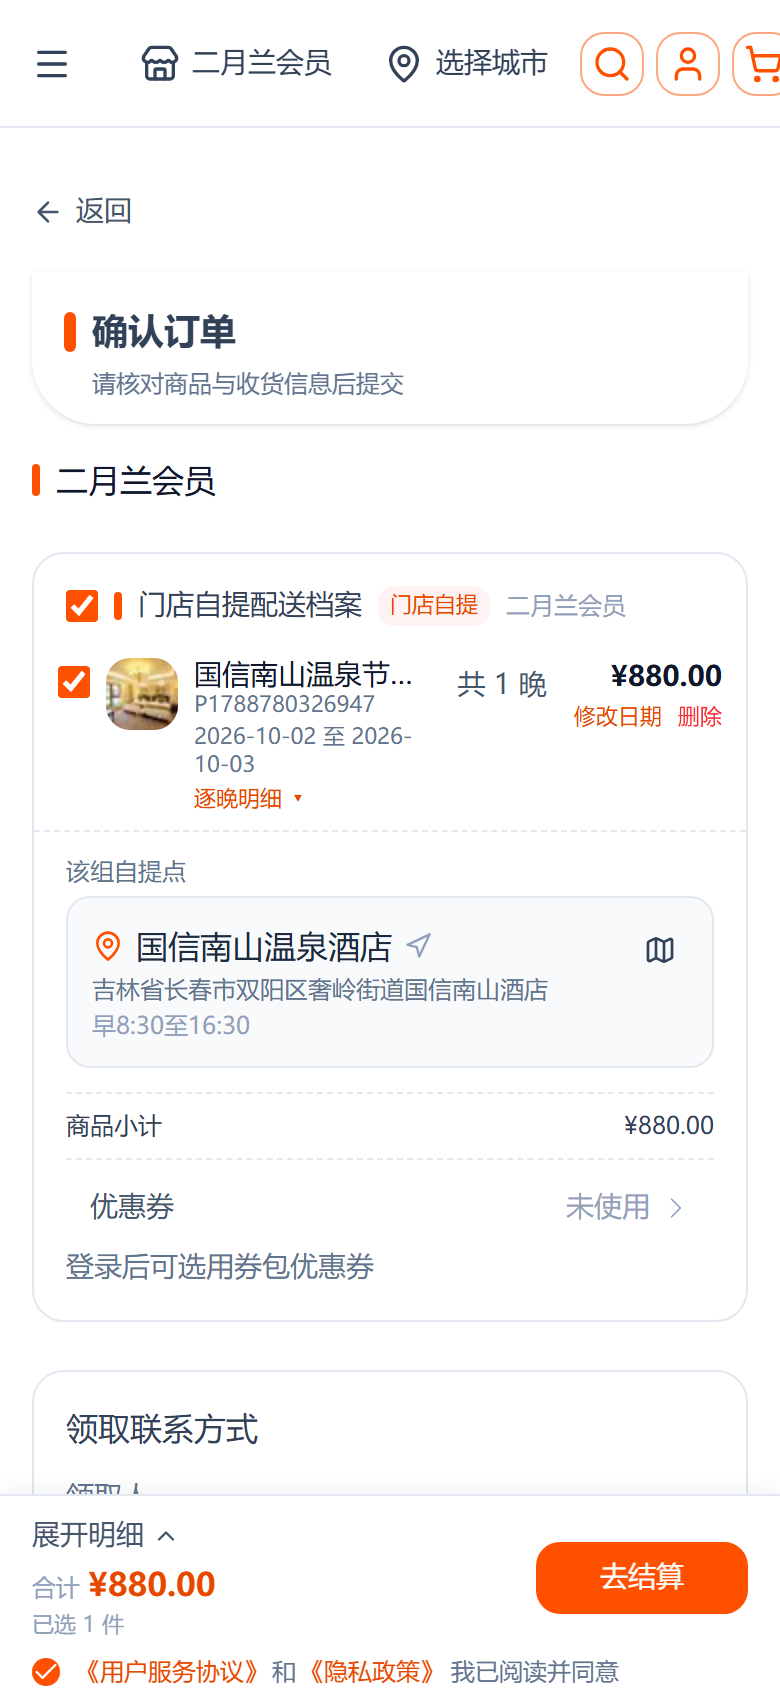
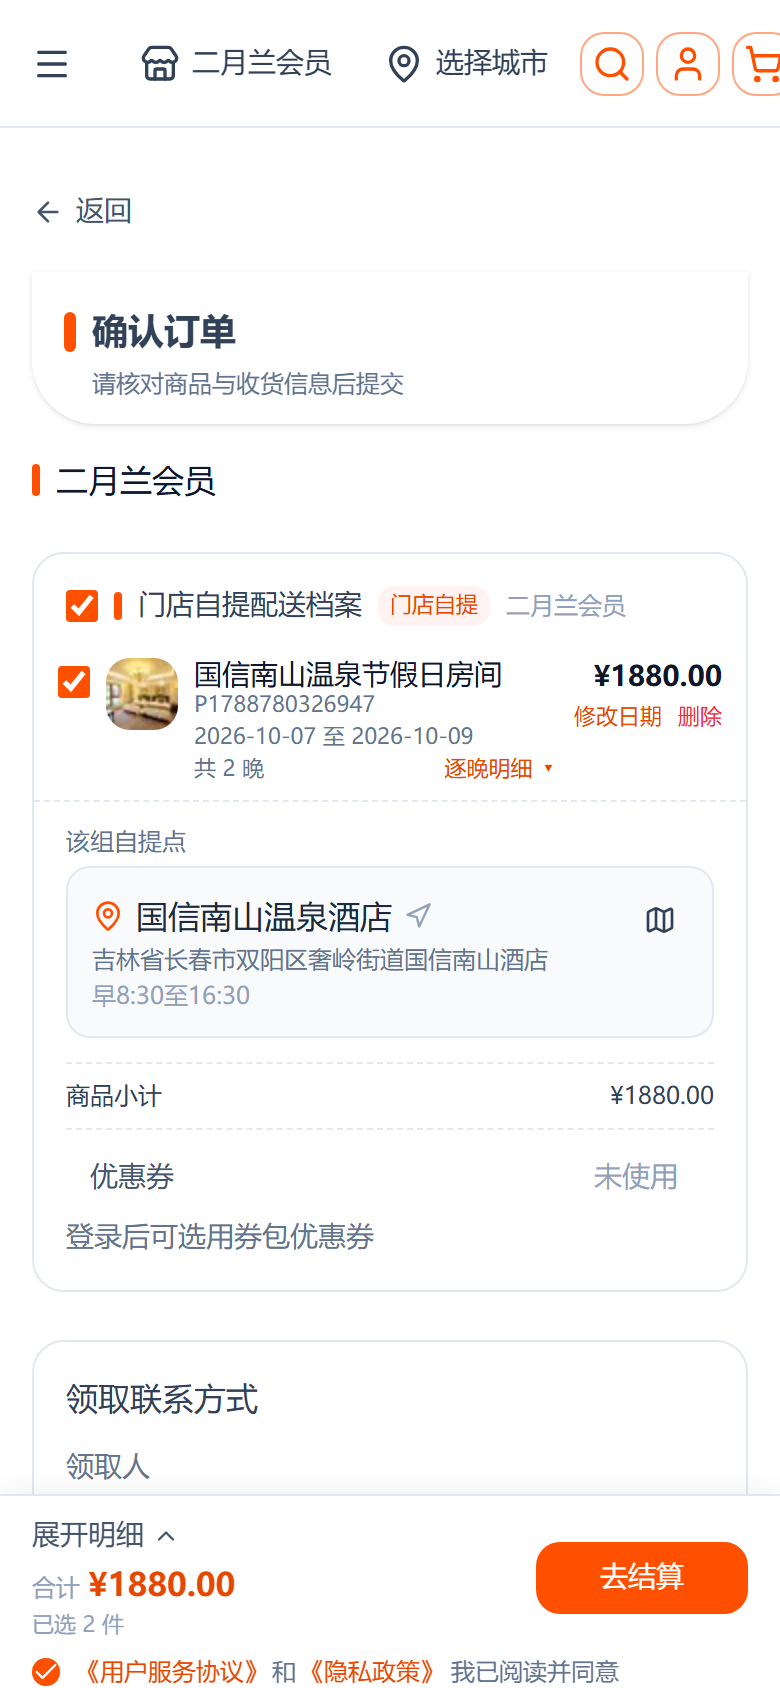
docs(hotel): 截图改为真实 2 晚/节假日场景，回归脚本参数化，补记结算页 390px 布局修复
原截图未设置入离日期（取默认 1 晚），未复现用户报的「2 晚、一晚 1000 一晚 880、合计 1880」；且结算页展开态日期文案逐字竖排。

录图脚本改为查询串预填 2026-10-07→10-09 并加页面文本断言；e2e 断言改为由入离日期推导（CHECK_IN/CHECK_OUT 可覆盖）；手册补 6.1 新口径、6.2 截图说明、6.3 国庆价格段与可选范围约束、6.4/6.4.1 命令、6.9 布局修复复盘。

diff --git a/docs/manual/product-detail/index.md b/docs/manual/product-detail/index.md
@@ -187,22 +187,27 @@
 
 - 选择入住/离店日期后：**晚数 = 离店 − 入住**（入住当日计第 1 晚），并作为下单数量 `quantity`
 - 单价 = 逐晚价格合计 ÷ 晚数；逐晚价格类型判定优先级：`custom > holiday > weekend > weekday`
-- 例（e2e 口径）：入住 `2026-02-14`、离店 `2026-02-16`（2 晚）→ `quantity=2`、`unitPriceWithTax=94000`、`linePriceWithTax=188000`；逐晚 `2026-02-14=88000/weekend`、`2026-02-15=100000/holiday`
+- 例（e2e 默认口径）：入住 `2026-02-14`、离店 `2026-02-16`（2 晚）→ `quantity=2`、`unitPriceWithTax=94000`、`linePriceWithTax=188000`；逐晚 `2026-02-14=88000/weekend`、`2026-02-15=100000/holiday`
+- 例（C 端可复现口径，即本文截图口径）：入住 `2026-10-07`、离店 `2026-10-09`（2 晚）→ `quantity=2`、`unitPriceWithTax=94000`、`linePriceWithTax=188000`；逐晚 `2026-10-07=100000/holiday`（国庆）、`2026-10-08=88000/weekday`。即「一晚 1000、一晚 880，合计 1880」
 
 ### 6.2 C 端验收点（手机视口 390×844 dpr=2）
 
-![详情页：入住/离店日期条 + 逐日计价 + 预估总价](../shots/2026-09-30-hotel-orderline/01-detail-datebar.png)
+> 截图口径：入住 `2026-10-07`、离店 `2026-10-09`（2 晚），即用户报的「节假日上浮、一晚 1000 一晚 880」场景。
+> 录图脚本 `scripts/_shot-hotel-checkout.mjs`（默认指向生产 t2），脚本内对页面文本做断言，断言失败退出码非 0。
 
-![购物车：酒店行显示「共 N 晚 · 起止日期」与修改日期/删除](../shots/2026-09-30-hotel-orderline/02-cart-hotel-line.png)
+![详情页：入住/离店日期条（共 2 晚）+ 逐日计价（10-07 节假日 ¥1000 / 10-08 ¥880）+ 预估总价 ¥1880](../shots/2026-09-30-hotel-orderline/01-detail-datebar.png)
 
-![结算页（折叠）：酒店行显示晚数与日期区间](../shots/2026-09-30-hotel-orderline/03-checkout-collapsed.png)
+![购物车：酒店行显示「共 2 晚 · 2026-10-07 至 2026-10-09」与 1880.00 CNY，有修改日期/删除、无步进器](../shots/2026-09-30-hotel-orderline/02-cart-hotel-line.png)
 
-![结算页（展开逐晚明细）：每晚日期 + 类型 + 价格](../shots/2026-09-30-hotel-orderline/04-checkout-expanded.png)
+![结算页（折叠）：酒店行显示「共 2 晚」+「逐晚明细 ▾」+ 行金额 ¥1880.00](../shots/2026-09-30-hotel-orderline/03-checkout-collapsed.png)
+
+![结算页（展开逐晚明细）：明细块独占整行，10-07 节假日 ¥1000.00 / 10-08 ¥880.00 / 住宿合计 ¥1880.00](../shots/2026-09-30-hotel-orderline/04-checkout-expanded.png)
 
 ![页头品牌去重：品牌位仅一个标识，不再重复渲染租户名](../shots/2026-09-30-hotel-orderline/05-header-brand.png)
 
-- 详情页：日期条可改期；底部「加入购物车/立即购买」受库存与晚数范围校验
-- 购物车/结算/订单：酒店行统一显示「共 N 晚 · YYYY-MM-DD 至 YYYY-MM-DD」，结算页可展开「逐晚明细」
+- 详情页：日期条可改期；「逐日计价」逐晚列出日期 + 日类型 + 价格，底部「预估总价 / 日均价」；加入购物车/立即购买受库存与晚数范围校验
+- 购物车/结算/订单：酒店行统一显示「共 N 晚 · YYYY-MM-DD 至 YYYY-MM-DD」，**不显示单价、无数量步进器**（晚数由日期决定，不可步进）
+- 结算页：金额只在行内显示合计（¥1880.00），点「逐晚明细」展开逐晚价格与「住宿合计」；明细块独占整行
 - 页头：品牌位（Logo）与租户名切换器去重，不再叠加渲染租户名文本
 
 ### 6.3 后台配置：房源与逐晚价
@@ -215,36 +220,59 @@
   "minNights": 1,
   "maxNights": 30,
   "priceCalendar": [
-    { "type": "holiday", "priceCent": 100000, "dates": ["2026-02-15", "2026-02-16"] }
+    { "type": "holiday", "priceCent": 100000, "dates": ["2026-02-15", "2026-02-16"] },
+    { "type": "holiday", "priceCent": 100000, "dates": ["2026-10-01", "2026-10-02", "2026-10-03", "2026-10-04", "2026-10-05", "2026-10-06", "2026-10-07"] }
   ]
 }
 ```
 
 - `priceCalendar[].type`：`weekday | weekend | holiday | custom`；`rate`（相对 `basePriceCent` 的系数）与 `priceCent`（固定价）二选一；`holiday/custom` 需带 `dates`
 - 未命中任何段时回退 `basePriceCent`；`longStayDiscount`（连住折扣）可选
+- **日期必须落在 C 端可选范围内才可能在页面上复现**：日期条限定「明天 ~ 今天+`advanceDays`」（本商品 `advanceDays=30`），过期 holiday 日期只在接口层可验证、页面上选不到。上例第二段（国庆 `2026-10-01~10-07`）就是为此追加的；如用于演示需按当前日期滚动更新。
 
 ### 6.4 自动化回归（对生产 e2e）
+
+入离日期由环境变量 `CHECK_IN` / `CHECK_OUT` 指定（默认 `2026-02-14` / `2026-02-16`），**所有断言由日期推导**，换日期无需改脚本：
 
 ```
 $env:SHOP_API='https://www.youshop.cn/shop-api'
 $env:HOTEL_VARIANT_ID='58'
 $env:CHANNEL_TOKEN='66ruvnhh34svhckaa2i'
+$env:CHECK_IN='2026-10-07'; $env:CHECK_OUT='2026-10-09'   # 省略则用默认口径
 node scripts/hotel-orderline-e2e.mjs
 ```
 
-脚本 `scripts/hotel-orderline-e2e.mjs` 断言 7 条（运行输出原文）：
+断言（8 条，`scripts/hotel-orderline-e2e.mjs` 运行输出原文，国庆口径）：
 
 ```
-PASS  数量=2
-PASS  单价=94000
-PASS  行小计=188000
+场景：2026-10-07 → 2026-10-09（2 晚）
+
+逐晚明细：
+  2026-10-07  holiday  ¥1000.00
+  2026-10-08  weekday  ¥880.00
+推导合计：¥1880.00（188000 分 / 2 晚，日均 ¥940.00）
+
+PASS  数量=2（=晚数）
+PASS  unitPriceWithTax=94000（=逐晚合计/晚数）
+PASS  linePriceWithTax=188000（=逐晚价之和）
 PASS  orderBoxes.isHotel=true
-PASS  逐晚 02-14=88000/weekend
-PASS  逐晚 02-15=100000/holiday
+PASS  orderBoxes.hotelNights=2
+PASS  逐晚条数=2
+PASS  逐晚日期自 checkIn 起逐日连续
 PASS  productSlug 非空（供修改日期跳回）
 ```
 
+默认口径（`2026-02-14 → 2026-02-16`，不设 `CHECK_IN/CHECK_OUT`）同样 8/8 PASS（逐晚 `02-14 weekend ¥880` + `02-15 holiday ¥1000`），用于防止旧场景回归。
+
 > 注意：Shop API 以 cookie 关联匿名活动订单，脚本内已用 cookieJar 维持同一会话，否则 `orderBoxes` 查不到刚加购的行。
+
+### 6.4.1 录图脚本
+
+```
+node scripts/_shot-hotel-checkout.mjs     # 默认 BASE=https://www.youshop.cn/t2、国庆 2 晚场景
+```
+
+可用环境变量覆盖：`BASE`、`HOTEL_SLUG`、`CHECK_IN`、`CHECK_OUT`。脚本内含页面文本断言（详情页 ¥1880 / ¥1000 / ¥880，购物车「共 2 晚」/1880.00，结算页展开后「住宿合计」/1880.00），断言失败以非 0 退出码结束。
 
 ### 6.5 普通商品回归
 
@@ -272,7 +300,16 @@ PASS  productSlug 非空（供修改日期跳回）
 
 - 后端（vendure，`d:\zhao\vendure`）：本地改 `src` → `packages/core` 执行 `npm run build` 重建 `dist`（dist 受控入库）→ commit + push → 服务器 `cd /www/apps/vendure && git pull --ff-only && pm2 restart vendure vendure-worker`
 - 前端（nshop，`d:\zhao\nshop`）：本地 `npm run build` → `node scripts/deploy.mjs`（scp 产物 → 服务器解压 → `pm2 restart nshop`）
-- **回滚**：`git revert <commit>` 后重跑上述部署即可；重新录图用 `scripts/_shot-hotel-checkout.mjs`（环境变量 `BASE`、`HOTEL_SLUG`）
+- **回滚**：`git revert <commit>` 后重跑上述部署即可；重新录图用 `scripts/_shot-hotel-checkout.mjs`（环境变量 `BASE`、`HOTEL_SLUG`、`CHECK_IN`、`CHECK_OUT`）
+
+### 6.9 结算页酒店行 390px 布局修复（2026-10-01）
+
+首次归档的截图为默认 1 晚且结算页展开态出现「日期文案逐字竖排换行」。复盘为两个独立问题，均已修复并重新部署：
+
+- **口径问题（证据不实）**：原录图脚本未设置入离日期，取到详情页默认 1 晚，未能复现用户报的 2 晚/节假日场景。→ 脚本改为用查询串预填日期（`?checkIn=&checkOut=`）并加页面文本断言；服务端 `priceCalendar` 追加国庆段（见 6.3）使场景在 C 端可选范围内真实可复现。
+- **布局缺陷（真实代码问题）**：`layers/base/app/components/checkout/BoxLines.vue` 的商品行 `<li>` 是 `flex`（默认 `nowrap`），展开的「逐晚明细」块虽写了 `w-full basis-full` 却**无法换行**，被压缩挤在同一行内，导致中间描述列宽度趋近于 0、日期文案逐字竖排；同时酒店行多了一个独立「共 N 晚」定宽列（`w-14`），进一步挤占描述列。→ 修法：酒店行的 `<li>` 追加 `flex-wrap`（普通商品行不加，保持原单行布局）；去掉独立晚数列，把「共 N 晚」并入描述列与「逐晚明细」同排；日期行加 `truncate`、操作行加 `whitespace-nowrap` 兜底。
+- 修复后：折叠态日期单行显示、展开态明细块独占整行横跨（见 6.2 第 3、4 张图）；普通商品行未受影响。
+
 
 ---
 
